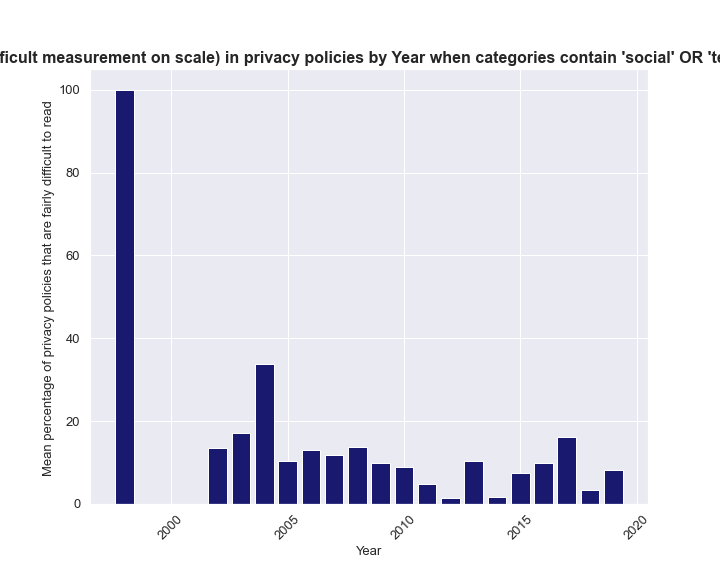
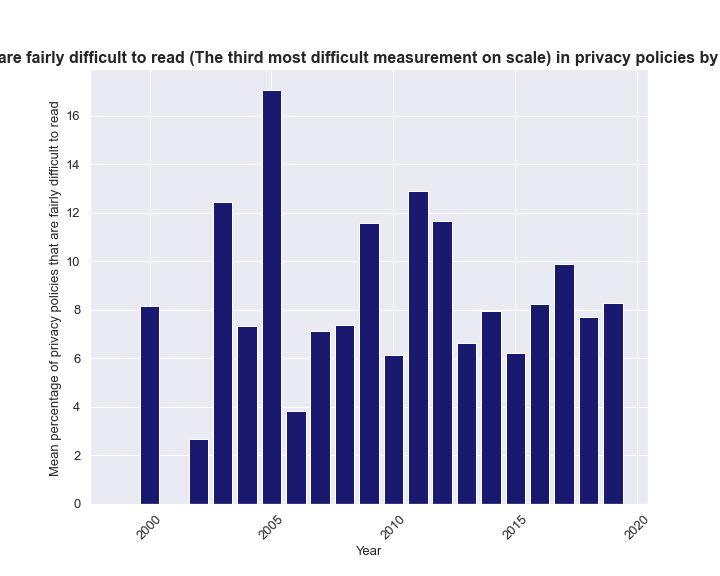
gaming graphs

diff --git a/Group project 1.00.py b/Group project 1.00.py
@@ -45,7 +45,9 @@ def create_connection(db_file):
     return conn
 
 def join1_sites__policy_snapshots(conn):
-    sites = pd.read_sql_query("SELECT id, categories from sites WHERE (categories LIKE '%social%' OR categories LIKE '%tech%' OR categories LIKE '%media%') AND  ( (categories LIKE '%sharing%')  OR  categories LIKE '%messageboard%' OR categories LIKE '%blogsandpersonal%') AND NOT categories LIKE '%news%'",conn)
+    #sites = pd.read_sql_query("SELECT id, categories from sites WHERE (categories LIKE '%social%' OR categories LIKE '%tech%' OR categories LIKE '%media%') AND  ( (categories LIKE '%sharing%')  OR  categories LIKE '%messageboard%' OR categories LIKE '%blogsandpersonal%') AND NOT categories LIKE '%news%'",conn)
+    sites = pd.read_sql_query("SELECT id, categories from sites WHERE categories LIKE '%game%'",conn)
+  
     #sites = pd.read_sql_query("SELECT id, categories from sites WHERE (categories LIKE '%tech%' OR categories LIKE '%media%') AND ( (categories LIKE '%sharing%' AND  categories LIKE '%media%')) OR  (categories LIKE '%education%' AND  categories LIKE '%tech%')-- OR  categories LIKE '%messageboard%' OR categories LIKE '%blogsandpersonal%')", conn)#maybe requery and do .unique and rederfine categories
    #category selector
 #   and ( (categories LIKE '%sharing%' and  categories LIKE '%media%')) or  (categories LIKE '%education%' and   categories LIKE '%tech%')
@@ -160,7 +162,7 @@ def MainCode(result):
      #nlp.groupby(nlp['year'].dt.year)['policy_text'].agg(['mean'])
      print('nlp',result['nlp'])
      #fieldnames.remove('year')
-     SQLcategoryFilter="when categories contain 'social' OR 'tech' OR'media' AND ('sharing' OR 'messageboard' OR 'blogsandpersonal and not news'"
+     SQLcategoryFilter="when categories are related to gaming"
 
     
      #working hashed for efficiency
